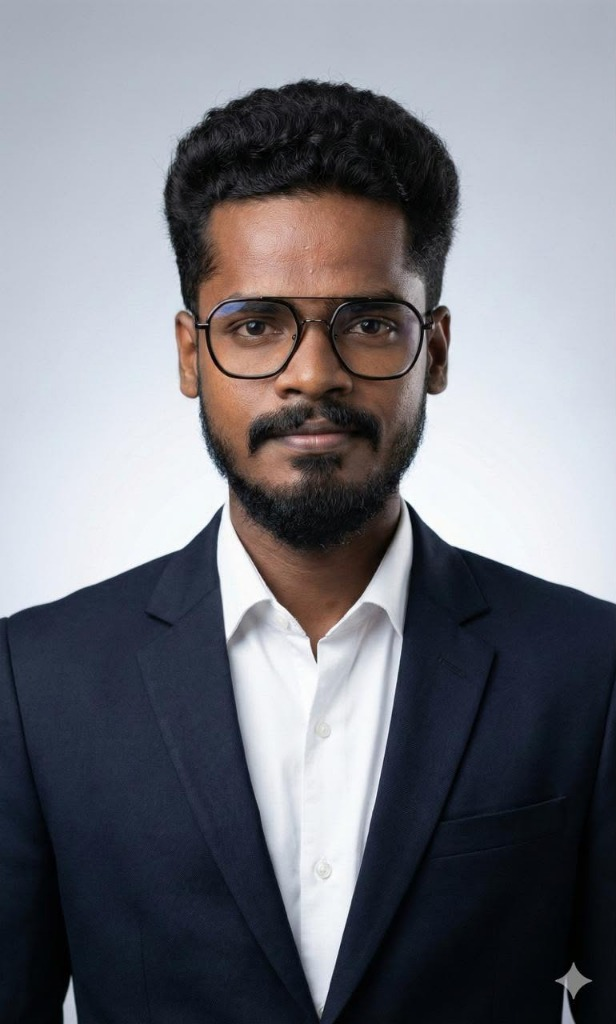
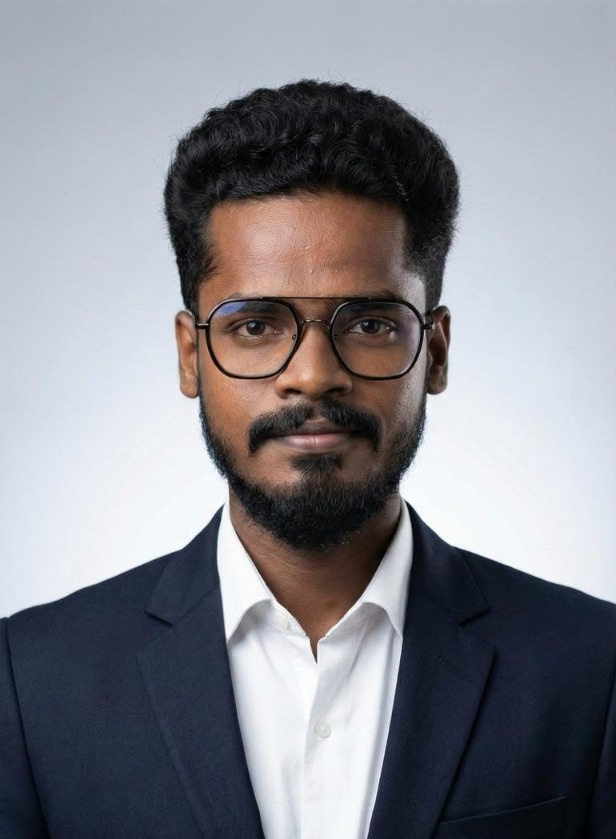
feat: add project AI imagery, remove mobile number, update LinkedIn display, and crop portrait photo

diff --git a/src/components/Contact.tsx b/src/components/Contact.tsx
@@ -1,16 +1,13 @@
 import React, { useState } from 'react';
 import { SectionWrapper } from './SectionWrapper';
 import { PORTFOLIO_CONTENT } from '../data/content';
-import { Mail, Linkedin, MapPin, Phone, Copy, Check, Send, Loader2, Eye, ExternalLink } from 'lucide-react';
+import { Mail, Linkedin, MapPin, Copy, Check, Send, Loader2, ExternalLink } from 'lucide-react';
 
 export const Contact: React.FC = () => {
   const { personal, contact } = PORTFOLIO_CONTENT;
 
   // Copy email state
   const [copiedEmail, setCopiedEmail] = useState(false);
-  // Phone reveal state
-  const [phoneRevealed, setPhoneRevealed] = useState(false);
-  const [copiedPhone, setCopiedPhone] = useState(false);
 
   // Form states
   const [formState, setFormState] = useState({
@@ -28,16 +25,6 @@ export const Contact: React.FC = () => {
       await navigator.clipboard.writeText(personal.email);
       setCopiedEmail(true);
       setTimeout(() => setCopiedEmail(false), 2400);
-    } catch {
-      // Fallback
-    }
-  };
-
-  const handleCopyPhone = async () => {
-    try {
-      await navigator.clipboard.writeText(personal.phone);
-      setCopiedPhone(true);
-      setTimeout(() => setCopiedPhone(false), 2400);
     } catch {
       // Fallback
     }
@@ -141,77 +128,32 @@ export const Contact: React.FC = () => {
               </a>
             </div>
 
-            {/* LinkedIn Card */}
-            <div className="p-5 rounded-card border border-border bg-surface hover-subtle space-y-3">
-              <div className="flex items-center justify-between">
-                <span className="text-xs font-mono uppercase tracking-wider text-muted flex items-center gap-1.5">
-                  <Linkedin className="w-3.5 h-3.5 text-accent" />
-                  Professional Network
-                </span>
-                <ExternalLink className="w-3.5 h-3.5 text-muted" />
+            {/* LinkedIn Card - Hides URL, Shows Logo & Name, Navigates on Click */}
+            <a
+              href={personal.linkedinUrl}
+              target="_blank"
+              rel="noopener noreferrer"
+              className="p-5 rounded-card border border-border bg-surface hover-subtle flex items-center justify-between group transition-colors block"
+              aria-label="Open Siva Manikandan's LinkedIn profile in a new tab"
+            >
+              <div className="flex items-center gap-3.5">
+                <div className="w-10 h-10 rounded-lg bg-accent-soft text-accent flex items-center justify-center shrink-0 group-hover:bg-accent group-hover:text-surface transition-colors">
+                  <Linkedin className="w-5 h-5" />
+                </div>
+                <div>
+                  <span className="text-xs font-mono uppercase tracking-wider text-muted block">
+                    Professional Network
+                  </span>
+                  <span className="text-base font-bold text-text group-hover:text-accent transition-colors">
+                    LinkedIn
+                  </span>
+                </div>
               </div>
-
-              <a
-                href={personal.linkedinUrl}
-                target="_blank"
-                rel="noopener noreferrer"
-                className="text-sm sm:text-base font-semibold text-text hover:text-accent transition-colors break-all block"
-              >
-                {personal.linkedinHandle}
-              </a>
-            </div>
-
-            {/* Phone Card (Behind anti-scraping toggle) */}
-            <div className="p-5 rounded-card border border-border bg-surface hover-subtle space-y-3">
-              <div className="flex items-center justify-between">
-                <span className="text-xs font-mono uppercase tracking-wider text-muted flex items-center gap-1.5">
-                  <Phone className="w-3.5 h-3.5 text-accent" />
-                  Phone (Direct)
-                </span>
-                
-                {phoneRevealed && (
-                  <button
-                    type="button"
-                    onClick={handleCopyPhone}
-                    className="inline-flex items-center gap-1.5 px-2.5 py-1 text-xs font-mono rounded-md border border-border bg-bg text-muted hover:text-text hover:border-accent transition-colors"
-                    aria-label="Copy phone number"
-                  >
-                    {copiedPhone ? (
-                      <>
-                        <Check className="w-3.5 h-3.5 text-accent" />
-                        <span className="text-accent font-medium">Copied</span>
-                      </>
-                    ) : (
-                      <>
-                        <Copy className="w-3.5 h-3.5" />
-                        <span>Copy</span>
-                      </>
-                    )}
-                  </button>
-                )}
+              
+              <div className="p-2 rounded-md bg-bg text-muted group-hover:text-accent group-hover:bg-accent-soft transition-colors">
+                <ExternalLink className="w-4 h-4 group-hover:translate-x-0.5 group-hover:-translate-y-0.5 transition-transform" />
               </div>
-
-              <div>
-                {!phoneRevealed ? (
-                  <button
-                    type="button"
-                    onClick={() => setPhoneRevealed(true)}
-                    className="inline-flex items-center gap-2 px-3 py-1.5 rounded-md border border-border bg-bg text-xs font-mono text-text hover:border-accent hover:text-accent transition-colors"
-                    aria-label="Show phone number"
-                  >
-                    <Eye className="w-3.5 h-3.5 text-accent" />
-                    <span>Show number</span>
-                  </button>
-                ) : (
-                  <a
-                    href={`tel:${personal.phone.replace(/\s+/g, '')}`}
-                    className="text-sm sm:text-base font-semibold text-text hover:text-accent font-mono transition-colors"
-                  >
-                    {personal.phone}
-                  </a>
-                )}
-              </div>
-            </div>
+            </a>
 
             {/* Location & Operating Base Card */}
             <div className="p-5 rounded-card border border-border bg-surface hover-subtle space-y-2">
@@ -222,7 +164,7 @@ export const Contact: React.FC = () => {
               <p className="text-sm font-semibold text-text">
                 {personal.location}
               </p>
-              <p className="text-xs text-muted">
+              <p className="text-xs text-muted leading-relaxed">
                 Available for on-site flight trials and prototype deployment across India and international test ranges.
               </p>
             </div>

diff --git a/src/components/Highlights.tsx b/src/components/Highlights.tsx
@@ -7,10 +7,10 @@ export const Highlights: React.FC = () => {
   const { highlights } = PORTFOLIO_CONTENT;
 
   const highlightIcons = [
-    <BatteryCharging className="w-5 h-5 text-accent" />,
-    <ShieldCheck className="w-5 h-5 text-accent" />,
-    <Mountain className="w-5 h-5 text-accent" />,
-    <Activity className="w-5 h-5 text-accent" />,
+    <BatteryCharging className="w-4 h-4 text-accent" />,
+    <ShieldCheck className="w-4 h-4 text-accent" />,
+    <Mountain className="w-4 h-4 text-accent" />,
+    <Activity className="w-4 h-4 text-accent" />,
   ];
 
   return (
@@ -34,39 +34,59 @@ export const Highlights: React.FC = () => {
           </p>
         </div>
 
-        {/* 4 Cards Grid */}
+        {/* 4 Project Cards Grid */}
         <div className="grid grid-cols-1 md:grid-cols-2 gap-6">
           {highlights.map((item, idx) => (
             <div
               key={item.id}
-              className="p-6 rounded-card border border-border bg-surface hover-subtle flex flex-col justify-between group"
+              className="rounded-card border border-border bg-surface hover-subtle flex flex-col justify-between overflow-hidden group transition-all duration-200"
             >
-              <div>
-                <div className="flex items-center justify-between mb-4">
-                  <div className="w-10 h-10 rounded-lg bg-accent-soft flex items-center justify-center shrink-0">
-                    {highlightIcons[idx]}
-                  </div>
-                  <span className="text-xs font-mono text-muted tracking-widest uppercase">
+              {/* AI-Generated Project Image Header */}
+              <div className="relative aspect-16/9 w-full overflow-hidden bg-bg border-b border-border">
+                <img
+                  src={item.imageUrl}
+                  alt={item.imageAlt}
+                  loading="lazy"
+                  className="w-full h-full object-cover object-center transition-transform duration-500 ease-out group-hover:scale-105"
+                  width={600}
+                  height={338}
+                />
+                
+                {/* Subtle vignette gradient */}
+                <div className="absolute inset-0 bg-gradient-to-t from-surface via-transparent to-black/20" />
+
+                {/* Top Badges */}
+                <div className="absolute top-3 inset-x-3 flex items-center justify-between">
+                  <span className="px-2.5 py-1 rounded-md bg-surface/90 backdrop-blur-md border border-border/80 text-[11px] font-mono font-semibold text-text shadow-xs">
                     PROG-{String(idx + 1).padStart(2, '0')}
                   </span>
+                  
+                  <div className="w-8 h-8 rounded-md bg-surface/90 backdrop-blur-md border border-border/80 flex items-center justify-center shadow-xs">
+                    {highlightIcons[idx]}
+                  </div>
                 </div>
-
-                <h3 className="font-display text-lg font-bold text-text tracking-tight group-hover:text-accent transition-colors duration-200">
-                  {item.title}
-                </h3>
-
-                <p className="mt-2 text-sm text-muted leading-relaxed">
-                  {item.context}
-                </p>
               </div>
 
-              {/* Outcome Badge */}
-              <div className="mt-6 pt-4 border-t border-border/60 flex items-center justify-between gap-2">
-                <div className="flex items-center gap-1.5 text-xs font-mono font-medium text-text">
-                  <span className="text-accent font-bold">Outcome:</span>
-                  <span>{item.outcome}</span>
+              {/* Card Body */}
+              <div className="p-6 flex-1 flex flex-col justify-between">
+                <div>
+                  <h3 className="font-display text-lg font-bold text-text tracking-tight group-hover:text-accent transition-colors duration-200">
+                    {item.title}
+                  </h3>
+
+                  <p className="mt-2 text-sm text-muted leading-relaxed">
+                    {item.context}
+                  </p>
                 </div>
-                <ArrowUpRight className="w-4 h-4 text-muted group-hover:text-accent group-hover:translate-x-0.5 group-hover:-translate-y-0.5 transition-transform duration-200" />
+
+                {/* Outcome Badge */}
+                <div className="mt-6 pt-4 border-t border-border/60 flex items-center justify-between gap-2">
+                  <div className="flex items-center gap-1.5 text-xs font-mono font-medium text-text">
+                    <span className="text-accent font-bold">Outcome:</span>
+                    <span>{item.outcome}</span>
+                  </div>
+                  <ArrowUpRight className="w-4 h-4 text-muted group-hover:text-accent group-hover:translate-x-0.5 group-hover:-translate-y-0.5 transition-transform duration-200" />
+                </div>
               </div>
             </div>
           ))}

diff --git a/src/data/content.ts b/src/data/content.ts
@@ -21,6 +21,8 @@ export interface HighlightItem {
   title: string;
   context: string;
   outcome: string;
+  imageUrl: string;
+  imageAlt: string;
 }
 
 export interface CredentialItem {
@@ -41,8 +43,7 @@ export const PORTFOLIO_CONTENT = {
     photoUrl: "/siva-manikandan.jpg",
     email: "sivamanikandan1000@gmail.com",
     linkedinUrl: "https://linkedin.com/in/sivamanikandan-s-9410a8252",
-    linkedinHandle: "linkedin.com/in/sivamanikandan-s-9410a8252",
-    phone: "+91 91503 43677",
+    linkedinLabel: "LinkedIn",
   },
 
   metrics: [
@@ -151,24 +152,32 @@ export const PORTFOLIO_CONTENT = {
       title: "Endurance Optimisation",
       context: "sub-6 kg multirotor platform aerodynamic & propulsion efficiency",
       outcome: "120+ min continuous flight time achieved",
+      imageUrl: "/projects/endurance-optimization.jpg",
+      imageAlt: "Sub-6 kg multirotor UAV long endurance flight test airfield",
     },
     {
       id: "dgca",
       title: "DGCA Type Certification Support",
       context: "Designated test pilot executing regulatory test card points",
       outcome: "Full compliance verification against formal safety frameworks",
+      imageUrl: "/projects/type-certification.jpg",
+      imageAlt: "UAV flight test and DGCA type certification readiness trial",
     },
     {
       id: "high-altitude",
       title: "High-Altitude & Defence Demonstrations",
       context: "Demanding mission profiles flown in challenging operational environments",
       outcome: "Live telemetry and post-flight validation data presented to defence stakeholders",
+      imageUrl: "/projects/high-altitude-defense.jpg",
+      imageAlt: "High-altitude fixed-wing UAV defence demonstration above mountain range",
     },
     {
       id: "vibration",
       title: "Vibration-to-Stability Workflow",
       context: "FFT frequency-domain log analysis (.BIN) to isolate airframe resonance",
       outcome: "Notch-filter configuration and PID refinement for smoother inner-loop control",
+      imageUrl: "/projects/vibration-fft-analysis.jpg",
+      imageAlt: "Avionics vibration log analysis and notch filter tuning bench",
     },
   ] as HighlightItem[],
 

diff --git a/src/components/Hero.tsx b/src/components/Hero.tsx
@@ -115,17 +115,17 @@ export const Hero: React.FC = () => {
               {/* Card Container with 1px border and 12px radius */}
               <div className="relative rounded-card overflow-hidden border border-border bg-surface shadow-xs transition-colors duration-200 group-hover:border-accent">
                 {/* Image */}
-                <div className="aspect-3/4 relative overflow-hidden bg-bg">
+                <div className="aspect-[4/5] relative overflow-hidden bg-bg">
                   <img
                     src={personal.photoUrl}
                     alt="Siva Manikandan S - Prototype Flight Test Pilot"
                     className="w-full h-full object-cover object-top transition-transform duration-500 group-hover:scale-[1.02]"
                     loading="eager"
-                    width={360}
-                    height={480}
+                    width={616}
+                    height={839}
                   />
                   {/* Subtle gradient vignette at bottom */}
-                  <div className="absolute inset-x-0 bottom-0 h-24 bg-gradient-to-t from-surface via-surface/40 to-transparent" />
+                  <div className="absolute inset-x-0 bottom-0 h-16 bg-gradient-to-t from-surface via-surface/30 to-transparent" />
                 </div>
 
                 {/* Sub-label under portrait */}
@@ -149,3 +149,4 @@ export const Hero: React.FC = () => {
     </section>
   );
 };
+

diff --git a/api/send.ts b/api/send.ts
@@ -65,3 +65,4 @@ Sent from Siva Manikandan S Flight Test Portfolio`,
     return res.status(500).json({ error: error.message || 'Internal server error while sending email.' });
   }
 }
+

diff --git a/src/components/SectionWrapper.tsx b/src/components/SectionWrapper.tsx
@@ -23,3 +23,4 @@ export const SectionWrapper: React.FC<SectionWrapperProps> = ({ id, className = 
     </motion.section>
   );
 };
+

diff --git a/src/main.tsx b/src/main.tsx
@@ -8,3 +8,4 @@ ReactDOM.createRoot(document.getElementById('root') as HTMLElement).render(
     <App />
   </React.StrictMode>
 );
+

diff --git a/src/components/FlightArtSvg.tsx b/src/components/FlightArtSvg.tsx
@@ -122,3 +122,4 @@ export const FlightArtSvg: React.FC<{ className?: string }> = ({ className = '' 
     </div>
   );
 };
+

diff --git a/src/components/Navbar.tsx b/src/components/Navbar.tsx
@@ -185,3 +185,4 @@ export const Navbar: React.FC<NavbarProps> = ({ theme, toggleTheme }) => {
     </header>
   );
 };
+

diff --git a/src/components/Capabilities.tsx b/src/components/Capabilities.tsx
@@ -180,3 +180,4 @@ export const Capabilities: React.FC = () => {
     </SectionWrapper>
   );
 };
+

diff --git a/src/components/Experience.tsx b/src/components/Experience.tsx
@@ -135,3 +135,4 @@ export const Experience: React.FC = () => {
     </SectionWrapper>
   );
 };
+

diff --git a/src/components/Credentials.tsx b/src/components/Credentials.tsx
@@ -70,3 +70,4 @@ export const Credentials: React.FC = () => {
     </SectionWrapper>
   );
 };
+
